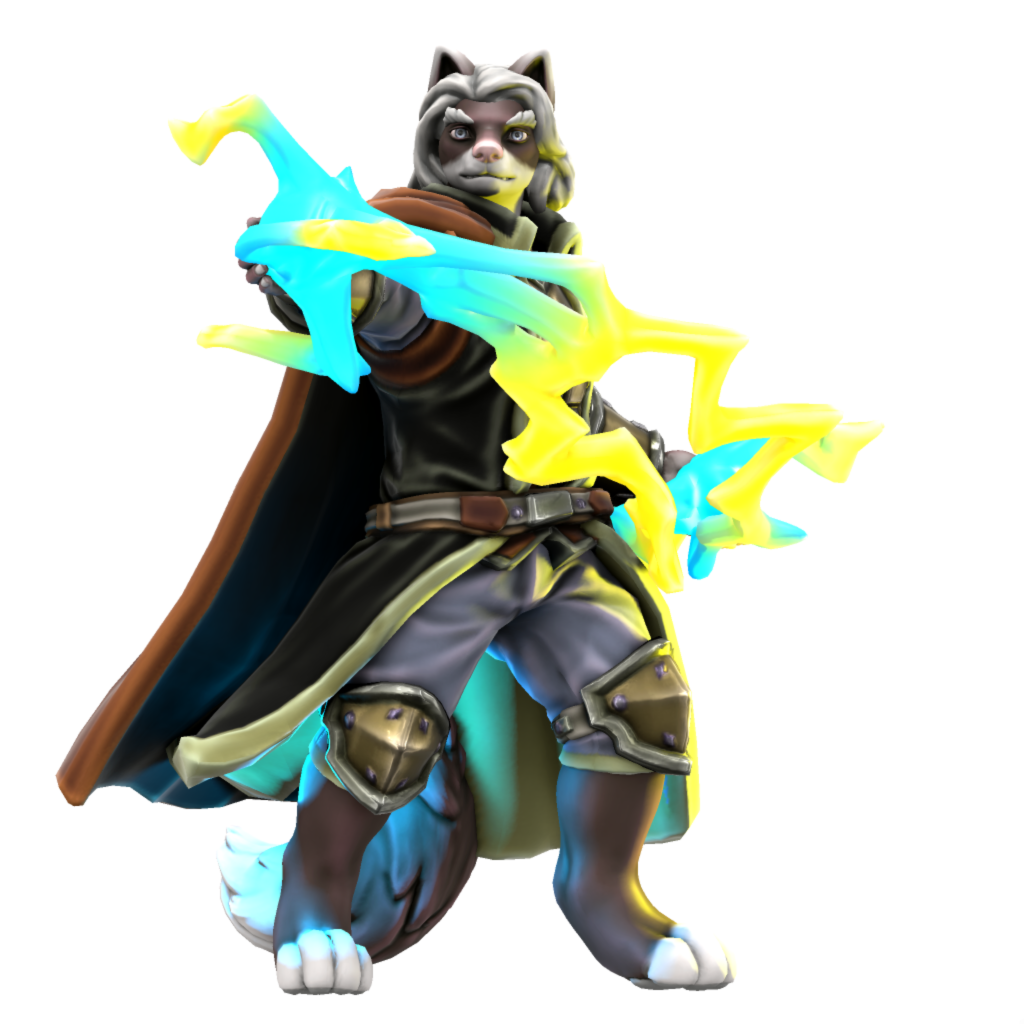
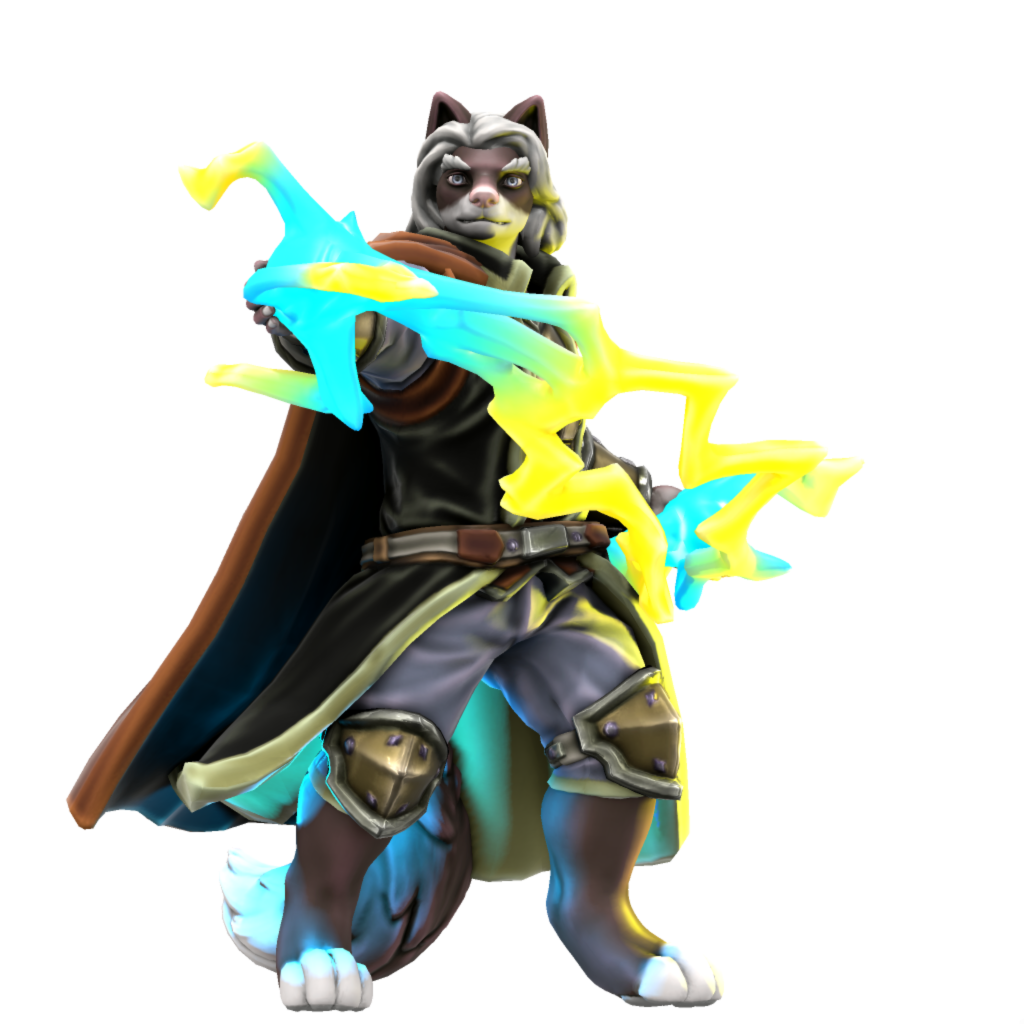
Realms for the kingdom and Weave - Rephrased and cleared up some sentences. - Included complete descriptions - Added license page - New picture of Zack

diff --git a/src/legal/license.md b/src/legal/license.md
@@ -1,0 +1,171 @@
+# Creative Commons Attribution-ShareAlike 4.0 International
+
+Creative Commons Corporation (“Creative Commons”) is not a law firm and does not provide legal services or legal advice. Distribution of Creative Commons public licenses does not create a lawyer-client or other relationship. Creative Commons makes its licenses and related information available on an “as-is” basis. Creative Commons gives no warranties regarding its licenses, any material licensed under their terms and conditions, or any related information. Creative Commons disclaims all liability for damages resulting from their use to the fullest extent possible.
+
+### Using Creative Commons Public Licenses
+
+Creative Commons public licenses provide a standard set of terms and conditions that creators and other rights holders may use to share original works of authorship and other material subject to copyright and certain other rights specified in the public license below. The following considerations are for informational purposes only, are not exhaustive, and do not form part of our licenses.
+
+* __Considerations for licensors:__ Our public licenses are intended for use by those authorized to give the public permission to use material in ways otherwise restricted by copyright and certain other rights. Our licenses are irrevocable. Licensors should read and understand the terms and conditions of the license they choose before applying it. Licensors should also secure all rights necessary before applying our licenses so that the public can reuse the material as expected. Licensors should clearly mark any material not subject to the license. This includes other CC-licensed material, or material used under an exception or limitation to copyright. [More considerations for licensors](http://wiki.creativecommons.org/Considerations_for_licensors_and_licensees#Considerations_for_licensors).
+
+* __Considerations for the public:__ By using one of our public licenses, a licensor grants the public permission to use the licensed material under specified terms and conditions. If the licensor’s permission is not necessary for any reason–for example, because of any applicable exception or limitation to copyright–then that use is not regulated by the license. Our licenses grant only permissions under copyright and certain other rights that a licensor has authority to grant. Use of the licensed material may still be restricted for other reasons, including because others have copyright or other rights in the material. A licensor may make special requests, such as asking that all changes be marked or described. Although not required by our licenses, you are encouraged to respect those requests where reasonable. [More considerations for the public](http://wiki.creativecommons.org/Considerations_for_licensors_and_licensees#Considerations_for_licensees).
+
+## Creative Commons Attribution-ShareAlike 4.0 International Public License
+
+By exercising the Licensed Rights (defined below), You accept and agree to be bound by the terms and conditions of this Creative Commons Attribution-ShareAlike 4.0 International Public License ("Public License"). To the extent this Public License may be interpreted as a contract, You are granted the Licensed Rights in consideration of Your acceptance of these terms and conditions, and the Licensor grants You such rights in consideration of benefits the Licensor receives from making the Licensed Material available under these terms and conditions.
+
+### Section 1 – Definitions.
+
+a. __Adapted Material__ means material subject to Copyright and Similar Rights that is derived from or based upon the Licensed Material and in which the Licensed Material is translated, altered, arranged, transformed, or otherwise modified in a manner requiring permission under the Copyright and Similar Rights held by the Licensor. For purposes of this Public License, where the Licensed Material is a musical work, performance, or sound recording, Adapted Material is always produced where the Licensed Material is synched in timed relation with a moving image.
+
+b. __Adapter's License__ means the license You apply to Your Copyright and Similar Rights in Your contributions to Adapted Material in accordance with the terms and conditions of this Public License.
+
+c. __BY-SA Compatible License__ means a license listed at [creativecommons.org/compatiblelicenses](http://creativecommons.org/compatiblelicenses), approved by Creative Commons as essentially the equivalent of this Public License.
+
+d. __Copyright and Similar Rights__ means copyright and/or similar rights closely related to copyright including, without limitation, performance, broadcast, sound recording, and Sui Generis Database Rights, without regard to how the rights are labeled or categorized. For purposes of this Public License, the rights specified in Section 2(b)(1)-(2) are not Copyright and Similar Rights.
+
+e. __Effective Technological Measures__ means those measures that, in the absence of proper authority, may not be circumvented under laws fulfilling obligations under Article 11 of the WIPO Copyright Treaty adopted on December 20, 1996, and/or similar international agreements.
+
+f. __Exceptions and Limitations__ means fair use, fair dealing, and/or any other exception or limitation to Copyright and Similar Rights that applies to Your use of the Licensed Material.
+
+g. __License Elements__ means the license attributes listed in the name of a Creative Commons Public License. The License Elements of this Public License are Attribution and ShareAlike.
+
+h. __Licensed Material__ means the artistic or literary work, database, or other material to which the Licensor applied this Public License.
+
+i. __Licensed Rights__ means the rights granted to You subject to the terms and conditions of this Public License, which are limited to all Copyright and Similar Rights that apply to Your use of the Licensed Material and that the Licensor has authority to license.
+
+j. __Licensor__ means the individual(s) or entity(ies) granting rights under this Public License.
+
+k. __Share__ means to provide material to the public by any means or process that requires permission under the Licensed Rights, such as reproduction, public display, public performance, distribution, dissemination, communication, or importation, and to make material available to the public including in ways that members of the public may access the material from a place and at a time individually chosen by them.
+
+l. __Sui Generis Database Rights__ means rights other than copyright resulting from Directive 96/9/EC of the European Parliament and of the Council of 11 March 1996 on the legal protection of databases, as amended and/or succeeded, as well as other essentially equivalent rights anywhere in the world.
+
+m. __You__ means the individual or entity exercising the Licensed Rights under this Public License. __Your__ has a corresponding meaning.
+
+### Section 2 – Scope.
+
+a. ___License grant.___
+
+   1. Subject to the terms and conditions of this Public License, the Licensor hereby grants You a worldwide, royalty-free, non-sublicensable, non-exclusive, irrevocable license to exercise the Licensed Rights in the Licensed Material to:
+
+       A. reproduce and Share the Licensed Material, in whole or in part; and
+
+       B. produce, reproduce, and Share Adapted Material.
+
+   2. __Exceptions and Limitations.__ For the avoidance of doubt, where Exceptions and Limitations apply to Your use, this Public License does not apply, and You do not need to comply with its terms and conditions.
+
+   3. __Term.__ The term of this Public License is specified in Section 6(a).
+
+   4. __Media and formats; technical modifications allowed.__ The Licensor authorizes You to exercise the Licensed Rights in all media and formats whether now known or hereafter created, and to make technical modifications necessary to do so. The Licensor waives and/or agrees not to assert any right or authority to forbid You from making technical modifications necessary to exercise the Licensed Rights, including technical modifications necessary to circumvent Effective Technological Measures. For purposes of this Public License, simply making modifications authorized by this Section 2(a)(4) never produces Adapted Material.
+
+   5. __Downstream recipients.__
+
+       A. __Offer from the Licensor – Licensed Material.__ Every recipient of the Licensed Material automatically receives an offer from the Licensor to exercise the Licensed Rights under the terms and conditions of this Public License.
+
+       B. __Additional offer from the Licensor – Adapted Material.__ Every recipient of Adapted Material from You automatically receives an offer from the Licensor to exercise the Licensed Rights in the Adapted Material under the conditions of the Adapter’s License You apply.
+
+       C. __No downstream restrictions.__ You may not offer or impose any additional or different terms or conditions on, or apply any Effective Technological Measures to, the Licensed Material if doing so restricts exercise of the Licensed Rights by any recipient of the Licensed Material.
+
+   6. __No endorsement.__ Nothing in this Public License constitutes or may be construed as permission to assert or imply that You are, or that Your use of the Licensed Material is, connected with, or sponsored, endorsed, or granted official status by, the Licensor or others designated to receive attribution as provided in Section 3(a)(1)(A)(i).
+
+b. ___Other rights.___
+
+   1. Moral rights, such as the right of integrity, are not licensed under this Public License, nor are publicity, privacy, and/or other similar personality rights; however, to the extent possible, the Licensor waives and/or agrees not to assert any such rights held by the Licensor to the limited extent necessary to allow You to exercise the Licensed Rights, but not otherwise.
+
+   2. Patent and trademark rights are not licensed under this Public License.
+
+   3. To the extent possible, the Licensor waives any right to collect royalties from You for the exercise of the Licensed Rights, whether directly or through a collecting society under any voluntary or waivable statutory or compulsory licensing scheme. In all other cases the Licensor expressly reserves any right to collect such royalties.
+
+### Section 3 – License Conditions.
+
+Your exercise of the Licensed Rights is expressly made subject to the following conditions.
+
+a. ___Attribution.___
+
+   1. If You Share the Licensed Material (including in modified form), You must:
+
+       A. retain the following if it is supplied by the Licensor with the Licensed Material:
+
+         i. identification of the creator(s) of the Licensed Material and any others designated to receive attribution, in any reasonable manner requested by the Licensor (including by pseudonym if designated);
+
+         ii. a copyright notice;
+
+         iii. a notice that refers to this Public License;
+
+         iv. a notice that refers to the disclaimer of warranties;
+
+         v. a URI or hyperlink to the Licensed Material to the extent reasonably practicable;
+
+       B. indicate if You modified the Licensed Material and retain an indication of any previous modifications; and
+
+       C. indicate the Licensed Material is licensed under this Public License, and include the text of, or the URI or hyperlink to, this Public License.
+
+   2. You may satisfy the conditions in Section 3(a)(1) in any reasonable manner based on the medium, means, and context in which You Share the Licensed Material. For example, it may be reasonable to satisfy the conditions by providing a URI or hyperlink to a resource that includes the required information.
+
+   3. If requested by the Licensor, You must remove any of the information required by Section 3(a)(1)(A) to the extent reasonably practicable.
+
+b. ___ShareAlike.___
+
+In addition to the conditions in Section 3(a), if You Share Adapted Material You produce, the following conditions also apply.
+
+1. The Adapter’s License You apply must be a Creative Commons license with the same License Elements, this version or later, or a BY-SA Compatible License.
+
+2. You must include the text of, or the URI or hyperlink to, the Adapter's License You apply. You may satisfy this condition in any reasonable manner based on the medium, means, and context in which You Share Adapted Material.
+
+3. You may not offer or impose any additional or different terms or conditions on, or apply any Effective Technological Measures to, Adapted Material that restrict exercise of the rights granted under the Adapter's License You apply.
+
+### Section 4 – Sui Generis Database Rights.
+
+Where the Licensed Rights include Sui Generis Database Rights that apply to Your use of the Licensed Material:
+
+a. for the avoidance of doubt, Section 2(a)(1) grants You the right to extract, reuse, reproduce, and Share all or a substantial portion of the contents of the database;
+
+b. if You include all or a substantial portion of the database contents in a database in which You have Sui Generis Database Rights, then the database in which You have Sui Generis Database Rights (but not its individual contents) is Adapted Material, including for purposes of Section 3(b); and
+
+c. You must comply with the conditions in Section 3(a) if You Share all or a substantial portion of the contents of the database.
+
+For the avoidance of doubt, this Section 4 supplements and does not replace Your obligations under this Public License where the Licensed Rights include other Copyright and Similar Rights.
+
+### Section 5 – Disclaimer of Warranties and Limitation of Liability.
+
+a. __Unless otherwise separately undertaken by the Licensor, to the extent possible, the Licensor offers the Licensed Material as-is and as-available, and makes no representations or warranties of any kind concerning the Licensed Material, whether express, implied, statutory, or other. This includes, without limitation, warranties of title, merchantability, fitness for a particular purpose, non-infringement, absence of latent or other defects, accuracy, or the presence or absence of errors, whether or not known or discoverable. Where disclaimers of warranties are not allowed in full or in part, this disclaimer may not apply to You.__
+
+b. __To the extent possible, in no event will the Licensor be liable to You on any legal theory (including, without limitation, negligence) or otherwise for any direct, special, indirect, incidental, consequential, punitive, exemplary, or other losses, costs, expenses, or damages arising out of this Public License or use of the Licensed Material, even if the Licensor has been advised of the possibility of such losses, costs, expenses, or damages. Where a limitation of liability is not allowed in full or in part, this limitation may not apply to You.__
+
+c. The disclaimer of warranties and limitation of liability provided above shall be interpreted in a manner that, to the extent possible, most closely approximates an absolute disclaimer and waiver of all liability.
+
+### Section 6 – Term and Termination.
+
+a. This Public License applies for the term of the Copyright and Similar Rights licensed here. However, if You fail to comply with this Public License, then Your rights under this Public License terminate automatically.
+
+b. Where Your right to use the Licensed Material has terminated under Section 6(a), it reinstates:
+
+   1. automatically as of the date the violation is cured, provided it is cured within 30 days of Your discovery of the violation; or
+
+   2. upon express reinstatement by the Licensor.
+
+   For the avoidance of doubt, this Section 6(b) does not affect any right the Licensor may have to seek remedies for Your violations of this Public License.
+
+c. For the avoidance of doubt, the Licensor may also offer the Licensed Material under separate terms or conditions or stop distributing the Licensed Material at any time; however, doing so will not terminate this Public License.
+
+d. Sections 1, 5, 6, 7, and 8 survive termination of this Public License.
+
+### Section 7 – Other Terms and Conditions.
+
+a. The Licensor shall not be bound by any additional or different terms or conditions communicated by You unless expressly agreed.
+
+b. Any arrangements, understandings, or agreements regarding the Licensed Material not stated herein are separate from and independent of the terms and conditions of this Public License.
+
+### Section 8 – Interpretation.
+
+a. For the avoidance of doubt, this Public License does not, and shall not be interpreted to, reduce, limit, restrict, or impose conditions on any use of the Licensed Material that could lawfully be made without permission under this Public License.
+
+b. To the extent possible, if any provision of this Public License is deemed unenforceable, it shall be automatically reformed to the minimum extent necessary to make it enforceable. If the provision cannot be reformed, it shall be severed from this Public License without affecting the enforceability of the remaining terms and conditions.
+
+c. No term or condition of this Public License will be waived and no failure to comply consented to unless expressly agreed to by the Licensor.
+
+d. Nothing in this Public License constitutes or may be interpreted as a limitation upon, or waiver of, any privileges and immunities that apply to the Licensor or You, including from the legal processes of any jurisdiction or authority.
+
+> Creative Commons is not a party to its public licenses. Notwithstanding, Creative Commons may elect to apply one of its public licenses to material it publishes and in those instances will be considered the “Licensor.” The text of the Creative Commons public licenses is dedicated to the public domain under the [CC0 Public Domain Dedication](https://creativecommons.org/publicdomain/zero/1.0/legalcode). Except for the limited purpose of indicating that material is shared under a Creative Commons public license or as otherwise permitted by the Creative Commons policies published at [creativecommons.org/policies](http://creativecommons.org/policies), Creative Commons does not authorize the use of the trademark “Creative Commons” or any other trademark or logo of Creative Commons without its prior written consent including, without limitation, in connection with any unauthorized modifications to any of its public licenses or any other arrangements, understandings, or agreements concerning use of licensed material. For the avoidance of doubt, this paragraph does not form part of the public licenses.
+>
+> Creative Commons may be contacted at creativecommons.org.

diff --git a/src/origins.md b/src/origins.md
@@ -12,7 +12,7 @@ The concept was revisited a few times in the over the years but wasn't until a f
 
 While creating the magic system, I wanted to keep the game endless because I had more fun trying to find the book than actually getting it, which there was always 50/50 chance of. After all, you begin in a ruin that is literally a dungeon. I was able to pull this off in early prototypes of the Essence magic system but it always took me away from the book's location.[^1] Got so crazy I managed to accidentally start a whole war between two Wizards and Rouges that would put Harry Potter to shame.
 
-In order to tame the beast that I've unleashed, I realized I needed a proper antagonist. Like getting the book, there is nearly a 50/50 chance you'll run into another wizard searching for the book too. So I decided to base antagonist off of the idea that there was a wizard before you and came up with [Torneth](https://www.furaffinity.net/view/41439402/). Not only did he come long before you but he unlocked a curse that forever has him chained to the book. Meaning, if you want to read it, you'll have to get through him.
+In order to tame the beast that I've unleashed, I realized I needed to create some balance. This came by adding a rather god-like I met at a hotel who would later become [Artemis](characters/artemis.md). Like getting the book, there is nearly a 50/50 chance you'll run into another wizard searching for the book too. So I decided to base antagonist off of the idea that there was a wizard before you and came up with [Torneth](https://www.furaffinity.net/view/41439402/). Not only did he come long before you but he unlocked a curse that forever has him chained to the book. Meaning, if you want to read it, you'll have to get through him.
 
 ## Legends Reborn
 

diff --git a/src/characters/torneth.md b/src/characters/torneth.md
@@ -4,7 +4,7 @@
 
 ## Description
 
-A greedy Tabaxi, Torneth is a former upper-class wizard whom upon discovering the Manual of the Phoenix, unlocked a hidden curse that magically bonded him to the book and turned him into a black furred demon in the process. He now lives an immortal life within the ruins of an old tower.  Despite this, he still free to roam around, but can't go too far. Torneth will never admit the book's curse as it does give him great pain to think about the life he lost centuries ago. Ironically, he has made the Manual of the Phoenix and the ruins it resides his new home and will lie about location of the book when asked. He will secretly attempt to get mana from any mages that tries to get the book in order to gain more power. Despite his greedy behavior, he has mellowed out somewhat, revealing his true personality: he loves to collect fossils, read books, and his upper-class behavior has since resurfaced.
+Torneth is a Tabaxi was once a famously wealthy wizard rumored to have disappeared. Truth was he had turned him into a black furred demon inside a ruined tower but no one knows why and refuses to say why. Torneth wears a top-half of an ox skull as a hat, a shredded shirt and loincloth. Though centuries old, Torneth looks quite young as he hasn't physically aged since becoming a demon. Despite his greed, he has mellowed out somewhat, revealing his true personality: he loves to collect fossils, read books, his wealthy behavior has since resurfaced. Torneth will even treat furries like a wealthy furry he once was. Like everyone else, Torneth has heard about the legendary [Artemis](artemis.md) and is quite fearful of his power.
 
 ## Usage
 

diff --git a/src/realms/weave/infinity.md b/src/realms/weave/infinity.md
@@ -1,0 +1,11 @@
+# The Infinity
+
+Owned by you, The Infinity is your personal express train that is constantly on the a move as it travels across The Weave. It is designed for your friends and mages that travels along the railroad. The Infinity is a multiple-unit train with seven sleep cars with one hybrid dining and lounge car in the center, each with a gangway connection connecting them all. The front and back of the train are hybrid sleeper and cab cars. The doors will only open for you, friends or other passengers on The Weave. Each car on the train has small indicator lights on the side of the vestibule that will tell if the train is moving or not, green and red, respectfully.
+
+## Background
+
+Named after Cartoon Network's Infinity Train, this train was created by me as a safe haven. It's formation and design is directly based off of JR's [285 series](https://en.wikipedia.org/wiki/285_series), used by Sunrise Izumo and Seto routes. While autonomous, the lights on the train are there for conductors.
+
+<!-- ## Background
+
+The Infinity was named after Cartoon Network's [Infinity Train](https://en.wikipedia.org/wiki/Infinity_Train) because it can travel indefinitely along The Weave. Ironically, it was created before The Weave. It is mostly meant as a quick means of escape and to provide a moment of relaxation because pre-Legends adventures were particularly hectic. The formation of both The Infinity and Sunrise Express are based off Japan's [285 series](https://en.wikipedia.org/wiki/285_series) of trains. The two trains are meant to be identical so The Infinity can easily stop at Furtropolis without raising eyebrows whenever magic is introduced. -->

diff --git a/src/characters/artemis.md b/src/characters/artemis.md
@@ -1,10 +1,10 @@
 # Artemis (Gigalak)
 
-<img src="../imgs/artemis.png" width="450" style="display: block;margin-left: auto;margin-right: auto;">
+<img src="../imgs/Artemis.png" width="450" style="display: block;margin-left: auto;margin-right: auto;">
 
 ## Description
 
-Towering over most average furs with a muscular body that makes the guys jealous and women blush, Artemis is a legendary wizard who is your guardian and protector that you need only to ask for his help for him be summoned. He is a powerful fox who has mastered every school of magic. Despite his intimating abilities, Artemis is actually quite kind and gentle, though he can have a bit of a short fuse at times. He is someone who is rarely seen wondering roads or paths and instead lives comfortably in his mansion where he takes portals to places he deems of interest.
+Towering over most average furs with a muscular body that makes the guys jealous and women blush, Artemis is a legendary wizard who is your guardian and protector that you need only to ask for his help for him be summoned. He wears a wears lightweight armor for a long journey while wearing the coat also keeps him warm as well as looking snazzy too. Artemis is a powerful fox who has mastered every school of magic. Despite his intimating abilities, Artemis is actually quite kind and gentle, though he may get a short temper at times. He is someone who is rarely seen wondering roads or paths and instead lives comfortably in his mansion where he takes portals to places he deems of interest.
 
 ## Background
 

diff --git a/src/realms/larion.md b/src/realms/larion.md
@@ -1,0 +1,7 @@
+# Kingdom of Larion
+
+Built upon the bravery, cunning and craftsmanship of its past, the kingdom of Larion is now among the most fortunate kingdom in its corner of the world. Their industry, literacy and housing are among its current greatest strengths. Unfortunately they lack a little in trade and infrastructure. There are some opposing groups against the current leadership and this has been the case for a long time. However, the current greatest threat to the kingdom is imminent war, but the current leadership is working with the public to solve this issue. The furries of Larion are content. They wear minimal clothing, usually a tunic, loincloths, or robes and may go bottomless. They live rewarding lives and while income might be lacking, their alchemy helps relief most of their issues. Religion holds no real importance in their lives and, if anything, has made them more elegant.
+
+## Background
+
+Larion is the default kingdom in AI Dungeon's [fantasy sceneries](https://ai-dungeon.fandom.com/wiki/Default_Scenario#Fantasy). The world is not defined beyond it's name. The description itself was generated by Fantasy Name Generator which wind up including elements that could lead to the war, similar to what was experienced during [The Long Game](./../origins.md#the-long-game).

diff --git a/src/realms/weave.md b/src/realms/weave.md
@@ -1,0 +1,11 @@
+# The Weave
+
+Ranging from double to quadruple tracks, The Weave is a isolated railway realm for autonomous trains that travel across tracks to stations all over the world. Each train on the The Weave is powered by magic provided from the rails, but a mage can take control if they need do. All portals to the The Weave will drop them off at the nearest station.
+
+## Tracks
+
+Harmless to creatures, magic from the tracks powers the autonomous trains and make them move. The Weave is primarily is a double-track railroad, one track in each direction. There are varies junctions in both directions that lead to sidings, yards and branch lines. In certain sections of The Weave, the tracks split from double to quadruple in order to handle increased traffic more during rush hour. Regardless of the number of tracks, there are signals in every direction.
+
+## Background
+
+With the exception of [The Infinity](./weave/infinity.md), the idea for The Weave actually thought up from the character created by AI Dungeon itself. I simply adapted and built upon it.

diff --git a/src/intro.md b/src/intro.md
@@ -1,5 +1,5 @@
 # Introduction
 
-<img src="imgs/zack-token.png" width="150" style="float:right;padding:5px">
+<img src="imgs/zack.png" width="350" style="display: block;margin-left: auto;margin-right: auto;">
 
-Legends of Zack is a fantasy world based on characters and locations from Casey Universe intended for D&D, AI Dungeon, KoboldAI or alike. At the heart of the world is [Essence](./essence.md), a magical energy that can be used to create powerful spells.
+Intended for D&D, AI Dungeon and alike, Legends of Zack is a fantasy world based on characters and locations from Casey Universe. At the heart of the world is [Essence](./essence.md), a magical energy inside every furry that can be used to create and harness powerful spells.

diff --git a/src/magic/runic.md b/src/magic/runic.md
@@ -1,3 +1,7 @@
 # Runic Magic
 
 Runic magic allows a mages to create or channels spells using the Essence into symbols and sigils. Historically runes were written in ancient Norse alphabets but now they are written with Latin alphabet. It is one of the most common form of non-verbal magic in part due to the fact they can be written on and with anything. As runes are used to create spells or represent the spells themselves, they are typically written in gibberish. Using detect magic, a mage can determine what spell a rune represents.
+
+## Background
+
+While I'm not all that familiar with how runic magic works in common fantasy, the intended design to function like a programming language.

diff --git a/src/SUMMARY.md b/src/SUMMARY.md
@@ -6,12 +6,20 @@
 # Magic
 
 - [Essence](./magic/essence.md)
-- [Runic](./magic/runic.md)
-- [The Weave](./magic/weave.md)
-  - [The Infinity](./magic/weave/infinity.md)
+- [Runes](./magic/runic.md)
+
+# Realms
+
+- [Larion](./realms/larion.md)
+- [The Weave](./realms/weave.md)
+  - [The Infinity](./realms/weave/infinity.md)
 
 # Characters
 
 <!-- - [Zack](./characters/zack.md) -->
 - [Torneth](./characters/torneth.md)
-- [Artemis](characters/artemis.md)
+- [Artemis](./characters/artemis.md)
+
+# Legal
+
+- [License](./legal/license.md)

diff --git a/src/characters/zack.md b/src/characters/zack.md
@@ -1,3 +1,7 @@
 # Zack
 
-<img src="../imgs/zack.png" width="250" style="float:left;padding:5px">
+<img src="../imgs/zack.png" width="350" style="display: block;margin-left: auto;margin-right: auto;">
+
+## Description
+
+## Background

diff --git a/src/egal/license.md b/src/egal/license.md
@@ -1,0 +1,1 @@
+# License
